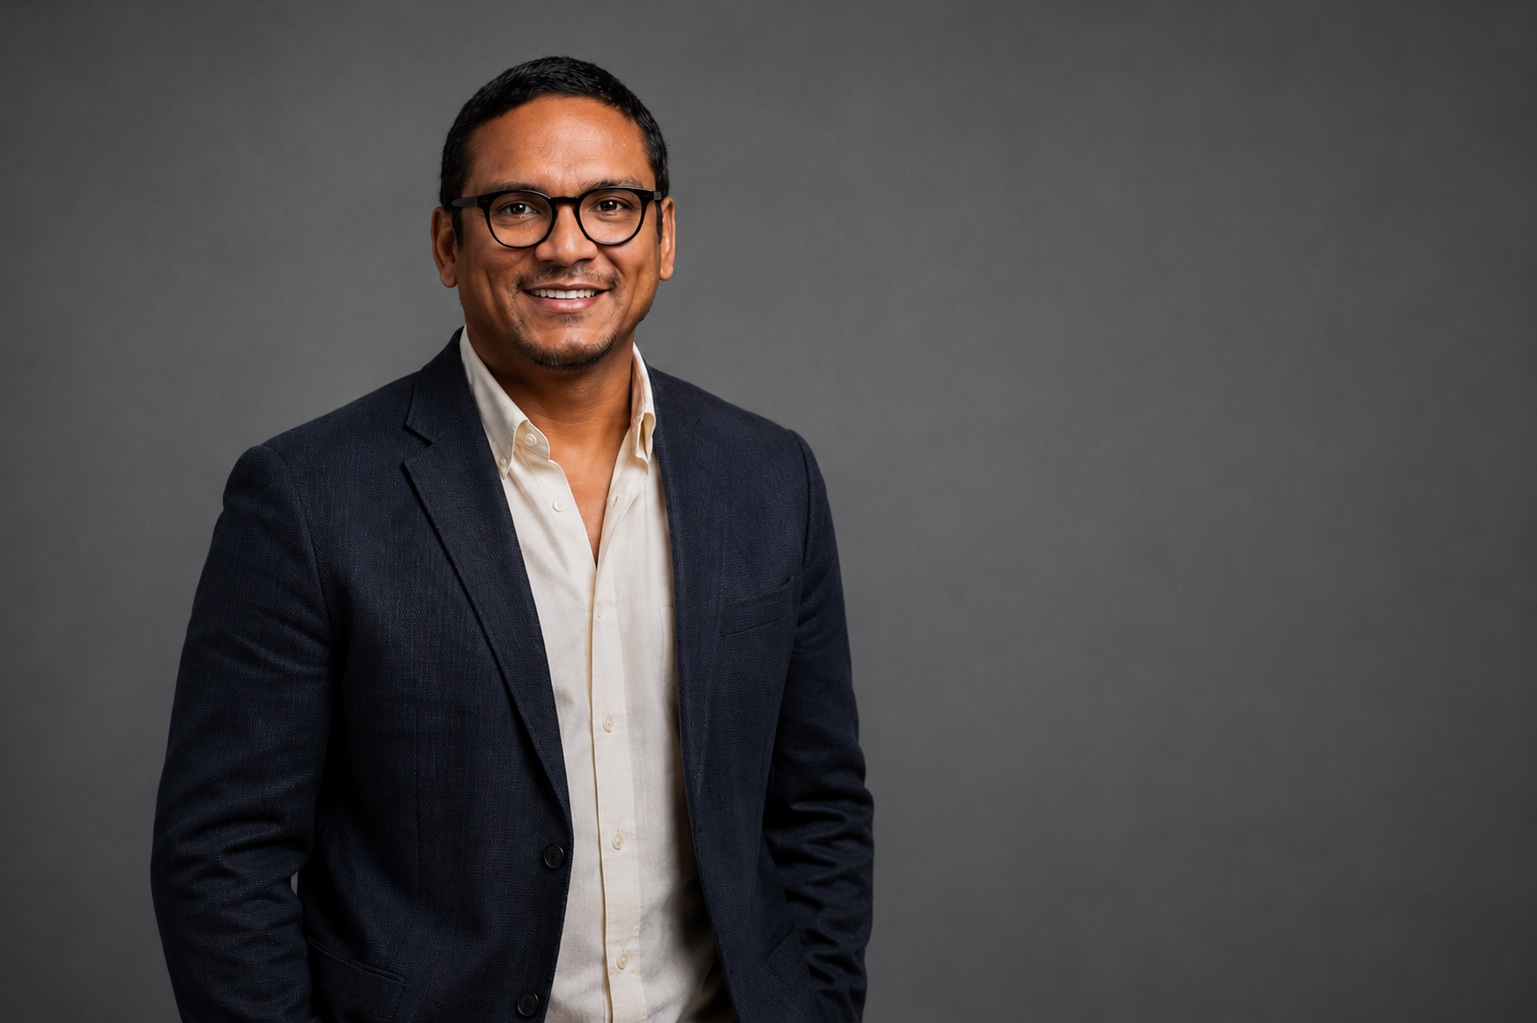
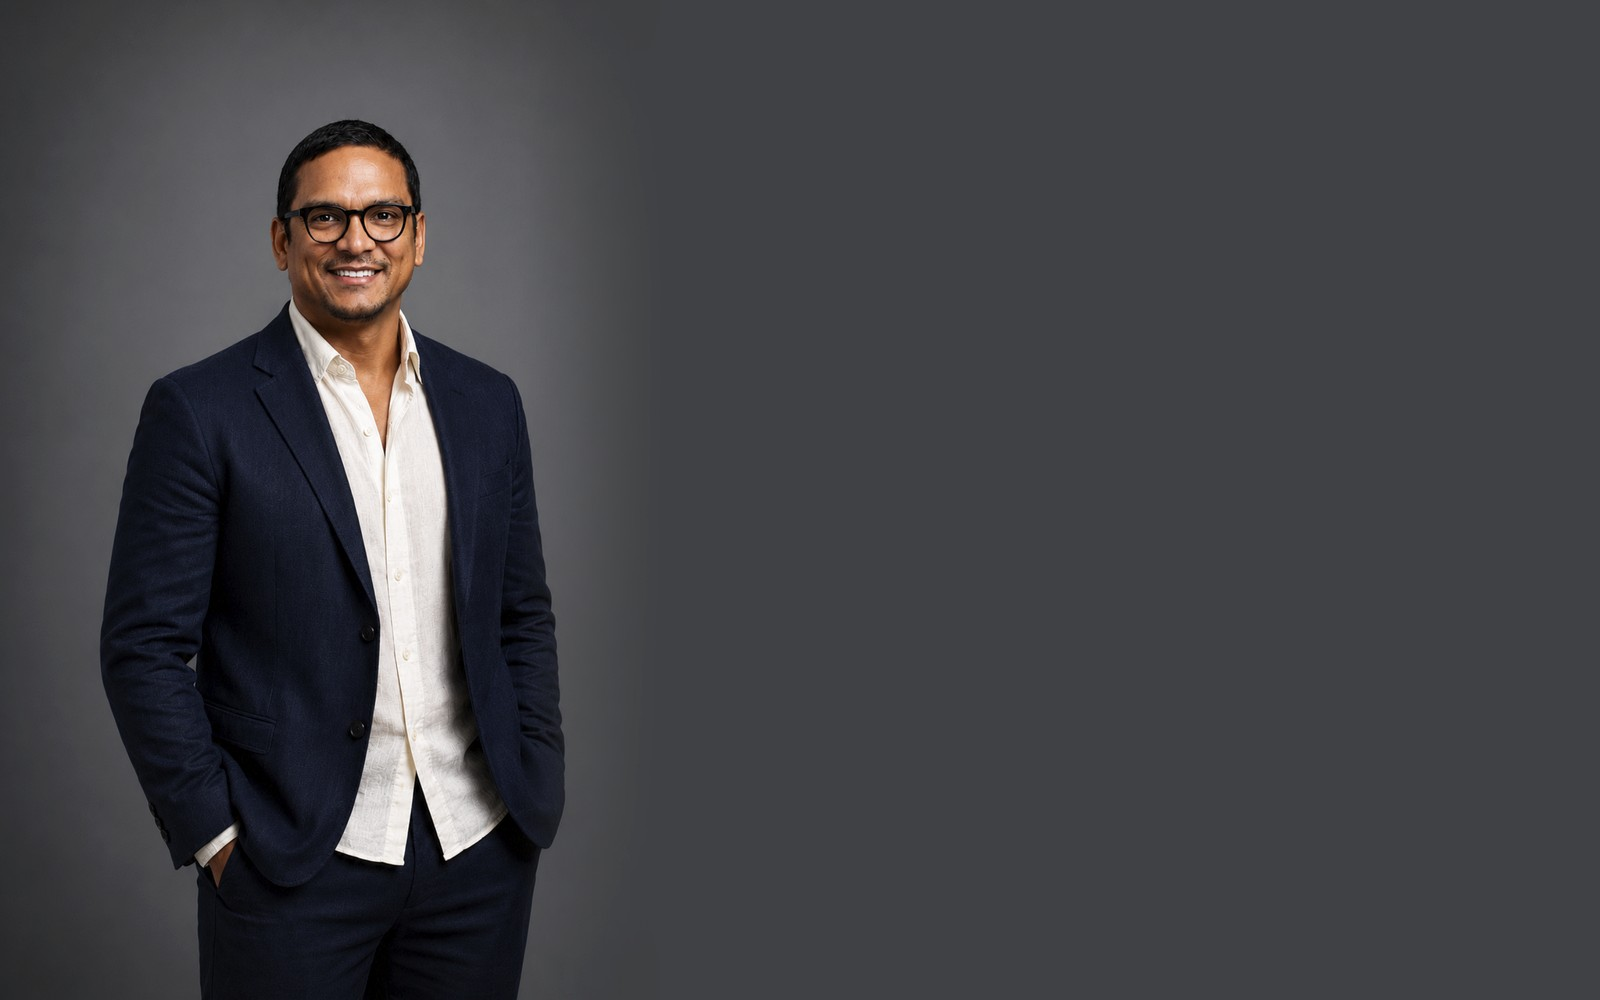
Update Dario brand image and hero polish

diff --git a/index-en.html b/index-en.html
@@ -312,11 +312,12 @@ section[id]{scroll-margin-top:96px}
 .about{background:#fff}
 .about-grid{display:grid;grid-template-columns:.85fr 1.15fr;gap:80px;align-items:start}
 .portrait{
-  aspect-ratio:4/5;
+  aspect-ratio:2/3;
   position:relative;overflow:hidden;
   border:1px solid var(--line);
+  background:#444548;
 }
-.portrait img{width:100%;height:100%;object-fit:cover;object-position:center top;filter:contrast(1.02)}
+.portrait img{width:100%;height:100%;object-fit:contain;object-position:center center;filter:contrast(1.02);display:block}
 .about .eyebrow{display:inline-flex;align-items:center;gap:14px;margin-bottom:22px}
 .about .eyebrow::before{content:"";width:24px;height:1px;background:var(--blue)}
 .about h2{font-size:clamp(28px,2.8vw,38px);line-height:1.08;font-weight:400;letter-spacing:-.018em}
@@ -492,7 +493,6 @@ footer{background:#fff;border-top:1px solid var(--line);padding:54px 0 30px}
   <div class="hero-shade"></div>
 
   <div class="hero-content">
-    <span class="eyebrow">Buy · rent · sell in Panama</span>
     <h1>Real estate guidance <em>with clear judgment</em>.</h1>
     <p class="lead">With a clear read of the market and the moment. Focused guidance, a clear process and no pressure.</p>
     <div class="hero-actions">
@@ -647,7 +647,7 @@ footer{background:#fff;border-top:1px solid var(--line);padding:54px 0 30px}
   <div class="container">
     <div class="about-grid">
       <div class="portrait">
-        <img src="images/dario-brand-vertical.jpg" alt="Dario Jhangimal" width="800" height="1000" loading="lazy" decoding="async">
+        <img src="images/dario-brand-vertical.jpg" alt="Dario Jhangimal" width="960" height="1440" loading="lazy" decoding="async">
       </div>
       <div>
         <span class="eyebrow">About Dario</span>

diff --git a/index.html b/index.html
@@ -312,11 +312,12 @@ section[id]{scroll-margin-top:96px}
 .about{background:#fff}
 .about-grid{display:grid;grid-template-columns:.85fr 1.15fr;gap:80px;align-items:start}
 .portrait{
-  aspect-ratio:4/5;
+  aspect-ratio:2/3;
   position:relative;overflow:hidden;
   border:1px solid var(--line);
+  background:#444548;
 }
-.portrait img{width:100%;height:100%;object-fit:cover;object-position:center top;filter:contrast(1.02)}
+.portrait img{width:100%;height:100%;object-fit:contain;object-position:center center;filter:contrast(1.02);display:block}
 .about .eyebrow{display:inline-flex;align-items:center;gap:14px;margin-bottom:22px}
 .about .eyebrow::before{content:"";width:24px;height:1px;background:var(--blue)}
 .about h2{font-size:clamp(28px,2.8vw,38px);line-height:1.08;font-weight:400;letter-spacing:-.018em}
@@ -492,7 +493,6 @@ footer{background:#fff;border-top:1px solid var(--line);padding:54px 0 30px}
   <div class="hero-shade"></div>
 
   <div class="hero-content">
-    <span class="eyebrow">Compra · alquiler · venta en Panamá</span>
     <h1>Selección inmobiliaria <em>con criterio</em>.</h1>
     <p class="lead">Con una lectura clara del mercado y del momento. Pocos clientes a la vez, por elección.</p>
     <div class="hero-actions">
@@ -647,7 +647,7 @@ footer{background:#fff;border-top:1px solid var(--line);padding:54px 0 30px}
   <div class="container">
     <div class="about-grid">
       <div class="portrait">
-        <img src="images/dario-brand-vertical.jpg" alt="Dario Jhangimal" width="800" height="1000" loading="lazy" decoding="async">
+        <img src="images/dario-brand-vertical.jpg" alt="Dario Jhangimal" width="960" height="1440" loading="lazy" decoding="async">
       </div>
       <div>
         <span class="eyebrow">Sobre Dario</span>